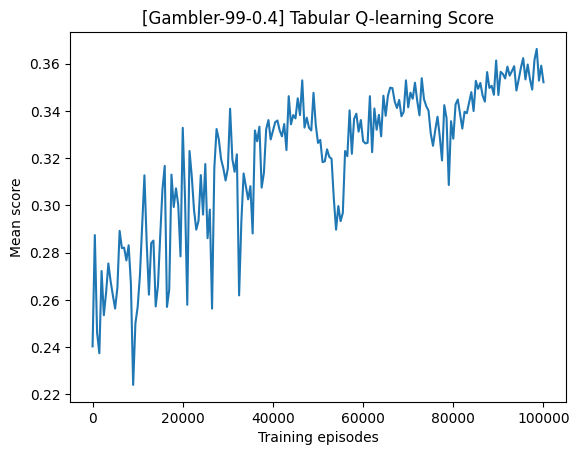
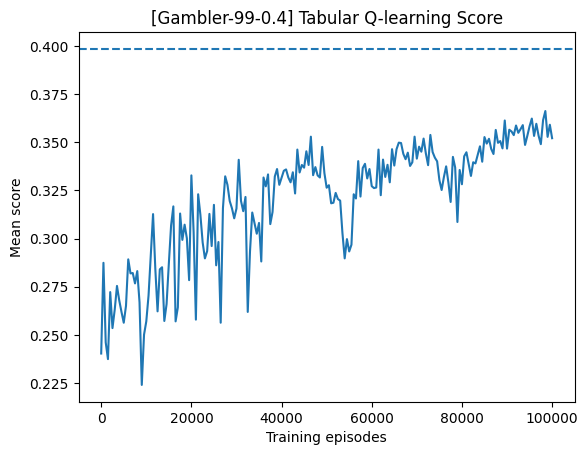
add optimal line

diff --git a/plot.py b/plot.py
@@ -27,6 +27,7 @@ def plot_run(data_path: str, params: dict, save_path: str):
 
     figure, axes = plt.subplots()
     axes.plot(x_values, y_values)
+    axes.axhline(data["optimal_score"], linestyle="dashed")
     axes.set_title(f"{env_key} {params['title']}")
     axes.set_xlabel(params["x_label"])
     axes.set_ylabel(params["y_label"])
@@ -34,11 +35,11 @@ def plot_run(data_path: str, params: dict, save_path: str):
     figure.savefig(save_path, bbox_inches="tight")
 
 plot_run(
-    "data/tabular_q_data3.json",
+    "data/tabular_q_data.json",
     {
         "title": "Tabular Q-learning Score",
         "x_label": "Training episodes",
         "y_label": "Mean score",
     },
-    "charts/tabular_q3.png",
+    "charts/tabular_q.png",
 )
